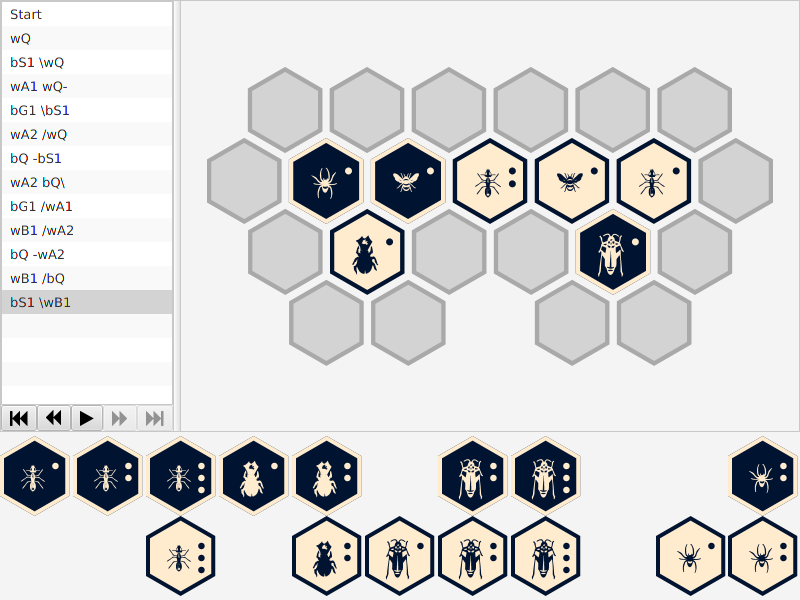
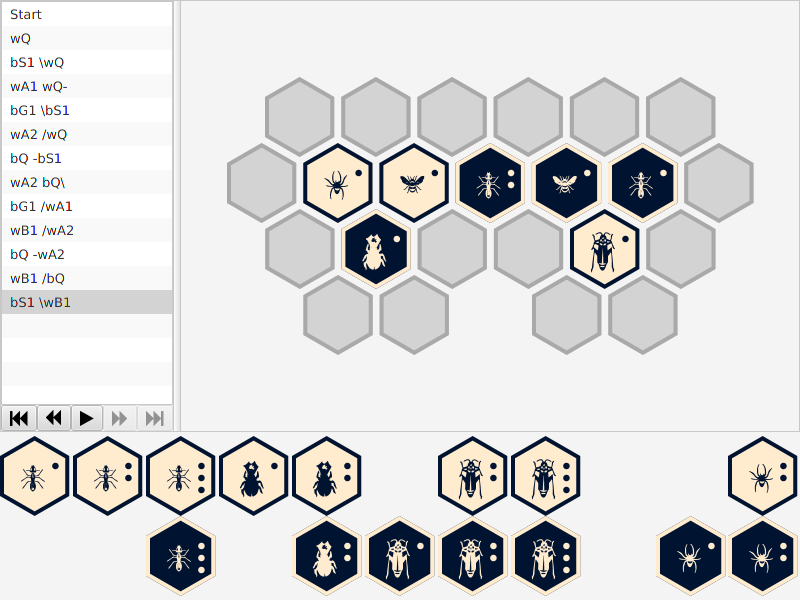
Finished initial version

Changed region(s): [[0.25, 0.09, 0.9688, 0.63], [0.0, 0.72, 0.75, 0.99], [0.8125, 0.72, 1.0, 0.99]]

diff --git a/src/hive/components/play/PlayPane.java b/src/hive/components/play/PlayPane.java
@@ -52,15 +52,17 @@ public final class PlayPane extends StackPane implements InvalidationListener {
 
 		BoardState state = this.model.boardState();
 
+		double factor = Math.max(this.getLayoutBounds().getWidth()/210, 4);
+
 		for (Map.Entry<Unit, HexCoordinate> e : state.units().entrySet()) {
 			Unit u = e.getKey();
 
 			HexCoordinate c = e.getValue();
 			u.location(c);
 
-			UnitHexagon uH = new UnitHexagon(u, 4);
+			UnitHexagon uH = new UnitHexagon(u, factor);
 			uH.enable(this.model.turn().equals(u.player()));
-			uH.translate(c.x() * 4, c.y() * 4);
+			uH.translate(c.x() * factor, c.y() * factor);
 
 			if (u.player().equals(this.model.turn())) {
 				uH.setOnMouseClicked(event -> this.model.selectedUnitProperty().set(u));
@@ -70,8 +72,8 @@ public final class PlayPane extends StackPane implements InvalidationListener {
 			g.getChildren().add(uH);
 		}
 		for (HexCoordinate c : state.freeHexagons()) {
-			FreeHexagon h = new FreeHexagon(4);
-			h.translate(c.x() * 4, c.y() * 4);
+			FreeHexagon h = new FreeHexagon(factor);
+			h.translate(c.x() * factor, c.y() * factor);
 
 			h.setOnMouseClicked(e -> {
 				if (this.model.selectedUnitProperty().get() != null) {

diff --git a/src/hive/components/viewer/PlayPane.java b/src/hive/components/viewer/PlayPane.java
@@ -49,19 +49,21 @@ public final class PlayPane extends StackPane implements InvalidationListener {
 
 		BoardState state = this.model.boardState();
 
+		double factor = Math.max(this.getLayoutBounds().getWidth()/210, 4);
+
 		for (Map.Entry<Unit, HexCoordinate> e : state.units().entrySet()) {
 			Unit u = e.getKey();
 
 			HexCoordinate c = e.getValue();
 			u.location(c);
 
-			UnitHexagon uH = new UnitHexagon(u, 4);
-			uH.translate(c.x() * 4, c.y() * 4);
+			UnitHexagon uH = new UnitHexagon(u, factor);
+			uH.translate(c.x() * factor, c.y() * factor);
 			g.getChildren().add(uH);
 		}
 		for (HexCoordinate c : state.freeHexagons()) {
-			FreeHexagon h = new FreeHexagon(4);
-			h.translate(c.x() * 4, c.y() * 4);
+			FreeHexagon h = new FreeHexagon(factor);
+			h.translate(c.x() * factor, c.y() * factor);
 			g.getChildren().add(h);
 		}
 
